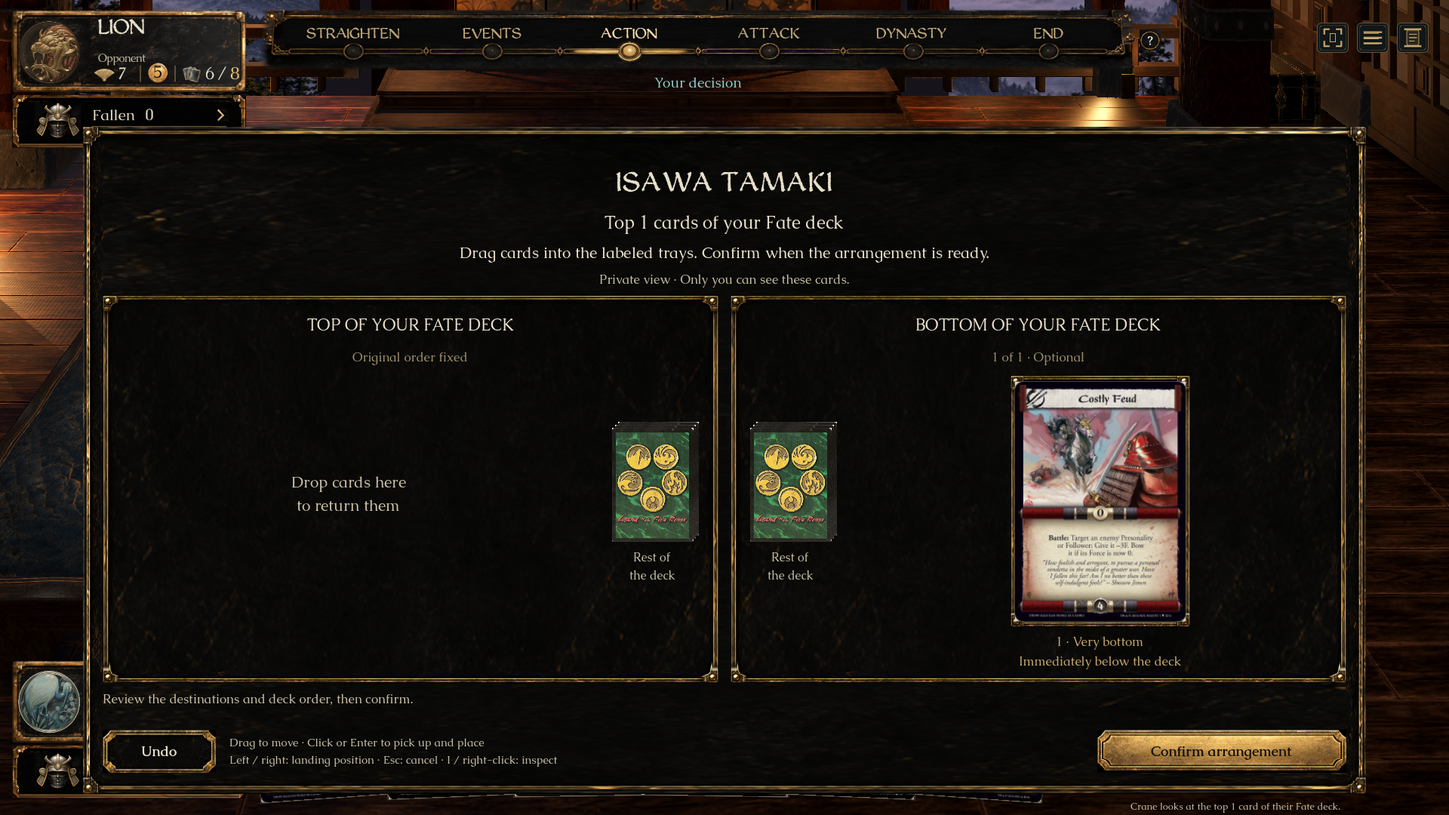
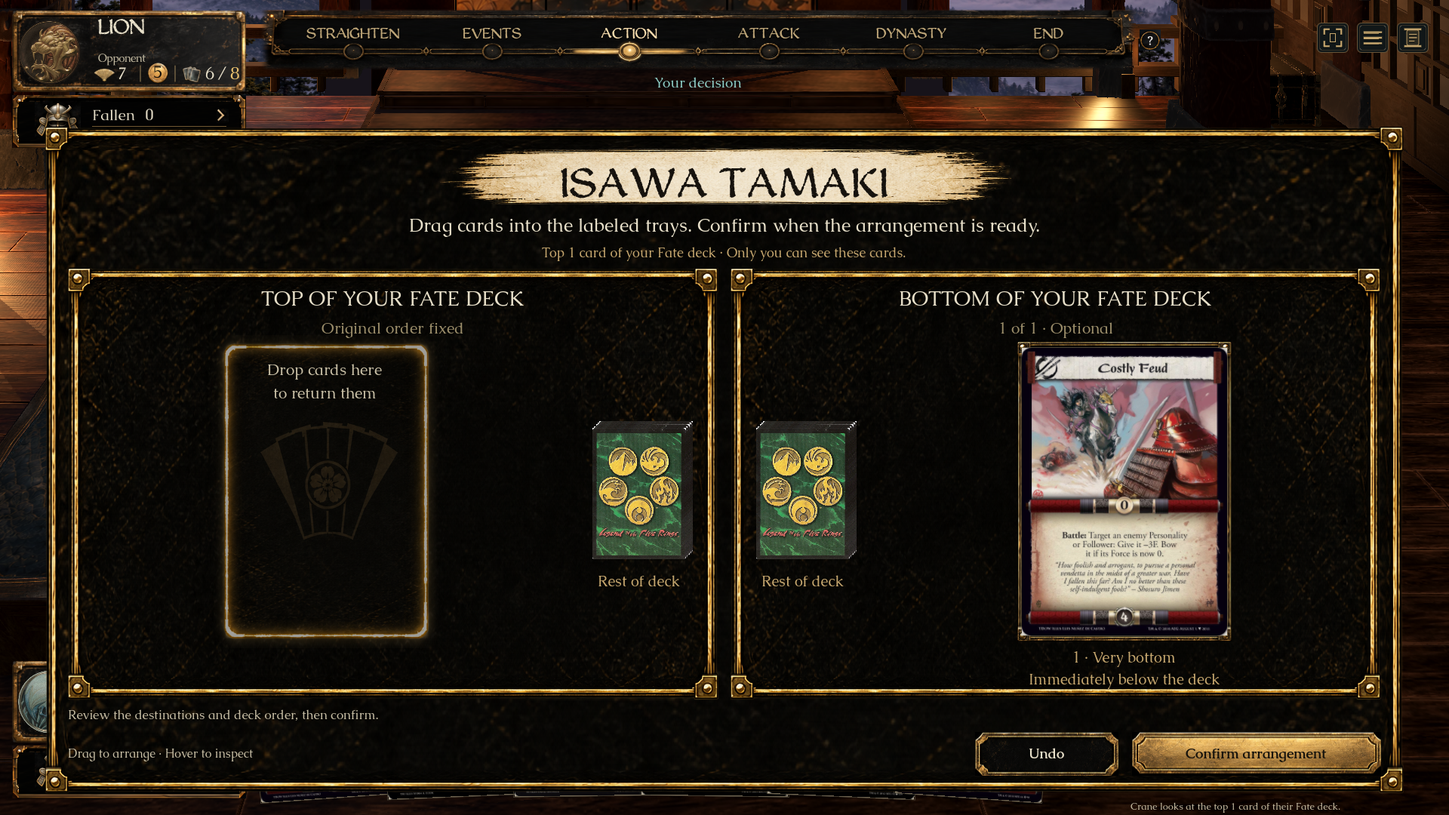
Restore Top Cards concept presentation and native review evidence

Changed region(s): [[0.0312, 0.1528, 0.9688, 0.9778], [0.0938, 0.2444, 0.125, 0.275]]

diff --git a/docs/screenshots/top-cards-drag/index.html b/docs/screenshots/top-cards-drag/index.html
@@ -1,1 +1,1 @@
-<!doctype html><html lang="en"><meta charset="utf-8"><meta name="viewport" content="width=device-width,initial-scale=1"><title>L5R · Approved Top Cards implementation</title><style>body{margin:0;background:#111411;color:#eee9db;font:17px/1.6 system-ui}main{max-width:1760px;margin:auto;padding:32px}h1,h2,h3{font-family:Georgia;font-weight:normal}a{color:#e6c98d}img{width:100%;display:block}.compare{display:grid;grid-template-columns:1fr 1fr;gap:20px}figure{margin:0}section{margin:28px 0;padding:22px;border:1px solid #454737;background:#191d18}.note{color:#bcbcae}@media(max-width:950px){.compare{grid-template-columns:1fr}}</style><main><h1>Drag cards into their destinations</h1><p><strong>A’s layout + B’s clear deck-order labels.</strong> The approved design is implemented in the native game. Review the new result before approving it for integration. Nothing has been merged into main.</p><p><a href="https://github.com/alfredoh7/l5r-emperor/pull/434">PR #434 and review feedback</a> · Native launcher: <strong>L5R Top Cards - Drag Review.app</strong>, linked in the conversation.</p><section><h2>Source and native result</h2><div class="compare"><figure><figcaption>A · Approved layout concept</figcaption><a href="../../designs/2026-09-22-top-cards-drag/a.png"><img src="../../designs/2026-09-22-top-cards-drag/a.png" alt="Approved ImageGen concept A with destination trays"></a></figure><figure><figcaption>Native · Original card faces and explicit deck order</figcaption><a href="normal-bottom.png"><img src="normal-bottom.png" alt="Native Banish All Doubt arrangement with the selected card in hand and three labeled bottom-deck positions"></a></figure></div><p class="note">The layout and positional explanation follow the selected concepts. The game retains its actual lacquer/brass artwork, original scans and heading font. Generated card art, parchment heading decoration and invented card text are not copied. This is not an exact full-screen pixel match.</p></section><section><h2>Before release</h2><p>A gold landing outline and live order labels show where the card will go. Neighbors make room. The arrangement stays a private draft until Confirm.</p><a href="normal-drag-bottom.png"><img src="normal-drag-bottom.png" alt="Native drag in progress with a visible held card and insertion slot"></a></section><section><h2>B’s order explanation</h2><div class="compare"><figure><figcaption>B · Order-label reference</figcaption><a href="../../designs/2026-09-22-top-cards-drag/b.png"><img src="../../designs/2026-09-22-top-cards-drag/b.png" alt="Concept B explicit physical deck order"></a></figure><div><p><strong>Top:</strong> 1 · Drawn first; 2 · Below card 1.</p><p><strong>Bottom:</strong> 1 · Immediately below the deck; 2 · Below card 1; 3 · Very bottom.</p><p>Drop outside a tray or press Escape to cancel. Undo reverses the last draft move. Click/Enter placement and left/right landing positions are available without dragging. Right-click or I opens the full scan.</p><p>Only engine-offered destinations appear. Eligibility and count bounds remain enforced; filling a Hand tray does not silently replace its card.</p></div></div></section><section><h2>Other effects remain explicit</h2><a href="normal-mixed.png"><img src="normal-mixed.png" alt="Separate top, bottom, hand and discard destinations"></a><a href="normal-top-bottom.png"><img src="normal-top-bottom.png" alt="Isawa Tamaki shows top and bottom destinations side by side"></a></section><section><h2>Smaller window · reduced motion</h2><a href="reduced-bottom.png"><img src="reduced-bottom.png" alt="1280 by 800 native view with reduced motion"></a></section><p>Native Mac tests passed at 1920×1080 and 1280×800: dragging, insertion, keyboard/click alternatives, cancel/undo, exact engine outcomes, eligibility/count limits, privacy and seat/busy resets. Windows graphical testing and Mendon’s acceptance remain open.</p></main></html>
+<!doctype html><html lang="en"><meta charset="utf-8"><meta name="viewport" content="width=device-width,initial-scale=1"><title>L5R · Top Cards concept fidelity review</title><style>body{margin:0;background:#111411;color:#eee9db;font:17px/1.6 system-ui}main{max-width:1760px;margin:auto;padding:32px}h1,h2,h3{font-family:Georgia;font-weight:normal}a{color:#e6c98d}img{width:100%;display:block}.compare{display:grid;grid-template-columns:1fr 1fr;gap:20px}figure{margin:0}section{margin:28px 0;padding:22px;border:1px solid #454737;background:#191d18}.note{color:#bcbcae}@media(max-width:950px){.compare{grid-template-columns:1fr}}</style><main><h1>Drag cards into their destinations</h1><p><strong>A’s layout + B’s clear deck-order labels.</strong> Revised 23 September after Alfredo rejected the earlier visual approximation. This capture restores the brush title, larger cards and deck anchor, a visible Hand slot, and glowing landing furniture. The new native result still needs Alfredo’s review. No main merge was made for this correction.</p><p><a href="https://github.com/alfredoh7/l5r-emperor/pull/434">PR #434 and review feedback</a> · Native launcher: <strong>L5R Top Cards - Approved Layout.app</strong>, linked in the conversation.</p><section><h2>Source and native result</h2><div class="compare"><figure><figcaption>A · Approved layout concept</figcaption><a href="../../designs/2026-09-22-top-cards-drag/a.png"><img src="../../designs/2026-09-22-top-cards-drag/a.png" alt="Approved ImageGen concept A with destination trays"></a></figure><figure><figcaption>Native · Original card faces and explicit deck order</figcaption><a href="normal-bottom.png"><img src="normal-bottom.png" alt="Native Banish All Doubt arrangement with the selected card in hand and three labeled bottom-deck positions"></a></figure></div><p class="note">The horizontal composition follows selected A; position labels follow B. The brush title and drop-slot furniture were derived with ImageGen from A, replacing the earlier approximation. Original scans, deck backs, live labels and the game’s heading font remain. These authentic faces differ from the illustrative concepts; no exact full-screen pixel-match claim is made.</p></section><section><h2>Before release</h2><p>A gold landing outline and live order labels show where the card will go. Neighbors make room. The arrangement stays a private draft until Confirm.</p><a href="normal-drag-bottom.png"><img src="normal-drag-bottom.png" alt="Native drag in progress with a visible held card and insertion slot"></a></section><section><h2>B’s order explanation</h2><div class="compare"><figure><figcaption>B · Order-label reference</figcaption><a href="../../designs/2026-09-22-top-cards-drag/b.png"><img src="../../designs/2026-09-22-top-cards-drag/b.png" alt="Concept B explicit physical deck order"></a></figure><div><p><strong>Top:</strong> 1 · Drawn first; 2 · Below card 1.</p><p><strong>Bottom:</strong> 1 · Immediately below the deck; 2 · Below card 1; 3 · Very bottom.</p><p>Drop outside a tray or press Escape to cancel. Undo reverses the last draft move. Click/Enter placement and left/right landing positions are available without dragging. Right-click or I opens the full scan.</p><p>Only engine-offered destinations appear. Eligibility and count bounds remain enforced; filling a Hand tray does not silently replace its card.</p></div></div></section><section><h2>Other effects remain explicit</h2><a href="normal-mixed.png"><img src="normal-mixed.png" alt="Separate top, bottom, hand and discard destinations"></a><a href="normal-top-bottom.png"><img src="normal-top-bottom.png" alt="Isawa Tamaki shows top and bottom destinations side by side"></a></section><section><h2>Smaller window · reduced motion</h2><a href="reduced-bottom.png"><img src="reduced-bottom.png" alt="1280 by 800 native view with reduced motion"></a></section><p>Native Mac tests passed at 1920×1080 and 1280×800: dragging, insertion, keyboard/click alternatives, cancel/undo, exact engine outcomes, eligibility/count limits, privacy and seat/busy resets. This revised appearance awaits human review. The Windows release pinned at 9f8ef9f5 predates this correction.</p></main></html>

diff --git a/src/L5R.Client/TopCardPanel.cs b/src/L5R.Client/TopCardPanel.cs
@@ -40,14 +40,17 @@ public sealed partial class TopCardPanel : PanelContainer
 
     public TopCardPanel()
     {
-        Theme = SidebarSkin.Theme(); AddThemeStyleboxOverride("panel", SidebarSkin.Surface());
-        _body.AddThemeConstantOverride("separation", 10); AddChild(_body);
+        Theme = SidebarSkin.Theme(); AddThemeStyleboxOverride("panel", TopCardSkin.Frame());
+        _body.AddThemeConstantOverride("separation", 8); AddChild(_body);
         _body.AddChild(_workspace); _workspace.Hide(); _workspace.AddChild(_landing);
         _workspace.Resized += () => LayoutCards(false);
-        _landing.AddThemeStyleboxOverride("panel", Palette.Box(new Color(.15f, .12f, .055f, .8f), Palette.Gold, 2, 4));
-        _landingText.HorizontalAlignment = HorizontalAlignment.Center; _landingText.VerticalAlignment = VerticalAlignment.Center;
+        _landing.AddThemeStyleboxOverride("panel", new StyleBoxEmpty());
+        var landingArt = new TextureRect { Texture = TopCardSkin.Slot, ExpandMode = TextureRect.ExpandModeEnum.IgnoreSize,
+            StretchMode = TextureRect.StretchModeEnum.Scale, MouseFilter = MouseFilterEnum.Ignore };
+        _landing.AddChild(landingArt); landingArt.SetAnchorsAndOffsetsPreset(LayoutPreset.FullRect);
+        _landingText.HorizontalAlignment = HorizontalAlignment.Center; _landingText.VerticalAlignment = VerticalAlignment.Top;
         _landingText.MouseFilter = MouseFilterEnum.Ignore; _landing.AddChild(_landingText);
-        _landingText.SetAnchorsAndOffsetsPreset(LayoutPreset.FullRect); _landingText.OffsetLeft = 10; _landingText.OffsetRight = -10;
+        _landingText.SetAnchorsAndOffsetsPreset(LayoutPreset.FullRect); _landingText.OffsetLeft = 20; _landingText.OffsetRight = -20; _landingText.OffsetTop = 30;
     }
     private void Center(string text, int size, Color? color = null, bool title = false)
     {
@@ -79,11 +82,21 @@ public sealed partial class TopCardPanel : PanelContainer
             return;
         }
         foreach (var card in look.Cards!) { _order.Add(card.Position); _destinations[card.Position] = look.Remainder; }
-        Center(look.SourceName.ToUpperInvariant(), 36, title: true);
-        Center($"Top {look.Cards.Length} {(look.Cards.Length == 1 ? "card" : "cards")} of {(look.OwnDeck ? "your" : "your opponent’s")} {look.Deck} deck", 24,
-            look.OwnDeck ? Palette.Paper : Palette.Gold);
-        Center(Instructions(), 21);
-        Center("Private view · Only you can see these cards.", 17, Palette.PaperDim);
+        var heading = new CenterContainer(); _body.AddChild(heading);
+        var title = new Control { CustomMinimumSize = new(760, 82), MouseFilter = MouseFilterEnum.Ignore }; heading.AddChild(title);
+        var brush = new TextureRect { Texture = TopCardSkin.Brush, ExpandMode = TextureRect.ExpandModeEnum.IgnoreSize,
+            StretchMode = TextureRect.StretchModeEnum.Scale, MouseFilter = MouseFilterEnum.Ignore };
+        title.AddChild(brush); brush.SetAnchorsAndOffsetsPreset(LayoutPreset.FullRect);
+        var titleText = look.SourceName.ToUpperInvariant();
+        var measuredTitle = Palette.HeadingLabel(56).GetStringSize(titleText, fontSize: 56).X;
+        var titleSize = Math.Min(56, (int)Math.Floor(56 * 612 / Math.Max(1, measuredTitle)));
+        var name = Palette.Text(titleText, titleSize, new Color("16120d"));
+        name.AddThemeFontOverride("font", Palette.HeadingLabel(titleSize));
+        name.HorizontalAlignment = HorizontalAlignment.Center; name.VerticalAlignment = VerticalAlignment.Center;
+        name.MouseFilter = MouseFilterEnum.Ignore; name.ClipText = true;
+        title.AddChild(name); name.SetAnchorsAndOffsetsPreset(LayoutPreset.FullRect); name.OffsetLeft = 66; name.OffsetRight = -66;
+        Center(Instructions(), 25);
+        Center($"Top {look.Cards.Length} {(look.Cards.Length == 1 ? "card" : "cards")} of {(look.OwnDeck ? "your" : "your opponent’s")} {look.Deck} deck · Only you can see these cards.", 18, Palette.Gold);
         _body.MoveChild(_workspace, -1); _workspace.Show(); _workspace.CustomMinimumSize = new(0, 460);
         var offered = (look.Rules ?? []).Where(r => r.Max > 0).Select(r => r.Disposition).Append(look.Remainder).ToHashSet();
         foreach (var destination in new[] { "top", "bottom", "hand", "show", "discard" }.Where(offered.Contains))
@@ -95,15 +108,16 @@ public sealed partial class TopCardPanel : PanelContainer
         foreach (var card in look.Cards)
         {
             var face = new TopCardFace(this, card.Position, DeckSearchPanel.Printed(card.Definition, viewer));
-            var caption = Palette.Wrapped("", 17, Palette.Gold); caption.HorizontalAlignment = HorizontalAlignment.Center;
+            var caption = Palette.Wrapped("", 20, Palette.Gold); caption.HorizontalAlignment = HorizontalAlignment.Center;
             caption.MouseFilter = MouseFilterEnum.Ignore;
             _workspace.AddChild(face); _workspace.AddChild(caption); _cards[card.Position] = (face, caption);
         }
-        _hint = Palette.Wrapped("", 17, Palette.PaperDim); _hint.CustomMinimumSize = new(0, 42); _body.AddChild(_hint);
+        _hint = Palette.Wrapped("", 17, Palette.PaperDim); _hint.CustomMinimumSize = new(0, 26); _body.AddChild(_hint);
         var footer = new HBoxContainer(); footer.AddThemeConstantOverride("separation", 18); _body.AddChild(footer);
-        UndoButton = SidebarSkin.Button("Undo", Undo); UndoButton.CustomMinimumSize = new(150, 54); footer.AddChild(UndoButton);
-        var help = Palette.Wrapped("Drag to move · Click or Enter to pick up and place\nLeft / right: landing position · Esc: cancel · I / right-click: inspect", 15, Palette.PaperDim);
-        help.SizeFlagsHorizontal = SizeFlags.ExpandFill; footer.AddChild(help);
+        var help = Palette.Text("Drag to arrange · Hover to inspect", 16, Palette.PaperDim);
+        help.TooltipText = "Click or Enter to pick up and place. Left / right chooses the landing position. Escape cancels. I or right-click opens the full card.";
+        help.MouseFilter = MouseFilterEnum.Stop; help.SizeFlagsHorizontal = SizeFlags.ExpandFill; footer.AddChild(help);
+        UndoButton = SidebarSkin.Button("Undo", Undo); UndoButton.CustomMinimumSize = new(190, 58); footer.AddChild(UndoButton);
         ConfirmButton = SidebarSkin.Button("Confirm arrangement", () =>
         {
             if (!_canSubmit || _dragged is not null || _picked is not null || !ValidDraft()) return;
@@ -116,7 +130,7 @@ public sealed partial class TopCardPanel : PanelContainer
         var rules = (_look.Rules ?? []).Where(r => r.Max > 0).ToArray();
         if (rules.Length == 0) return _look.CanReorder ? "Drag the cards into the order you want to draw them." : "Review the cards. Their original order is fixed.";
         if (rules.Length == 1 && rules[0] is { Disposition: "hand", Min: 1, Max: 1 })
-            return $"Drag 1 card into your hand. {(_look.CanReorder ? "Arrange" : "Return")} the rest {(_look.Remainder == "bottom" ? "below" : "on top of")} the deck.";
+            return $"Drag 1 card into your hand. {(_look.CanReorder ? "Arrange" : "Return")} the other {_look.Cards!.Length - 1} {(_look.Remainder == "bottom" ? "at the bottom" : "on top of the deck")}.";
         return "Drag cards into the labeled trays. Confirm when the arrangement is ready.";
     }
     private static bool IsReturn(string destination) => destination is "top" or "bottom";
@@ -153,8 +167,8 @@ public sealed partial class TopCardPanel : PanelContainer
         {
             var rule = _look.Rules?.FirstOrDefault(r => r.Disposition == destination);
             var count = Group(destination).Length;
-            tray.Count.Text = rule is null ? (_look.CanReorder ? "Arrange left to right" : "Original order fixed") :
-                rule.Min == rule.Max ? $"{count} of {rule.Max} · Choose exactly {rule.Max}" : rule.Min == 0 ? $"{count} of {rule.Max} · Optional" : $"{count} selected · Choose {rule.Min}–{rule.Max}";
+            tray.Count.Text = rule is null ? (_look.CanReorder ? "" : "Original order fixed") :
+                rule.Min == rule.Max ? (count == rule.Max ? $"{count} of {rule.Max} · Ready" : $"Choose {rule.Max} · {count} placed") : rule.Min == 0 ? $"{count} of {rule.Max} · Optional" : $"{count} selected · Choose {rule.Min}–{rule.Max}";
             tray.Count.Modulate = rule is not null && (count < rule.Min || count > rule.Max) ? Palette.Gold : Palette.PaperDim;
             tray.Disabled = !_canSubmit;
             tray.TooltipText = (_dragged ?? _picked) is int p ? DropReason(p, destination) ?? "Place card here" : "Pick up a card, then choose this tray.";
@@ -233,6 +247,7 @@ public sealed partial class TopCardPanel : PanelContainer
         var preview = new Control { MouseFilter = MouseFilterEnum.Ignore, ZIndex = 200, ZAsRelative = false };
         var face = CardPreview.Face(DeckSearchPanel.Printed(_look.Cards!.Single(c => c.Position == position).Definition, _viewer), source.Size.Y * scale.Y, source.Size.X * scale.X);
         preview.AddChild(face); face.Position = -atPosition * scale; face.Size = source.Size * scale;
+        if (!ReducedMotion) face.Rotation = .055f;
         source.SetDragPreview(preview); Paint(); LayoutCards(false);
         return new Godot.Collections.Dictionary { ["top_card_panel"] = GetInstanceId(), ["position"] = position };
     }
@@ -292,13 +307,13 @@ public sealed partial class TopCardPanel : PanelContainer
     private Rect2[] SlotRects(TopCardTray tray, int count)
     {
         count = Math.Max(1, count);
-        var anchorWidth = IsReturn(tray.Destination) ? Math.Min(166, tray.Size.X * .20f) : 0;
-        var area = new Rect2(tray.Position + new Vector2(18 + (tray.Destination == "bottom" ? anchorWidth : 0), 106),
-            new Vector2(tray.Size.X - 36 - anchorWidth, tray.Size.Y - 180));
-        var width = Math.Min((area.Size.X - (count - 1) * 18) / count, Math.Min(area.Size.Y / 1.4f, 252));
+        var anchorWidth = IsReturn(tray.Destination) ? Math.Min(218, tray.Size.X * .21f) : 0;
+        var area = new Rect2(tray.Position + new Vector2(24 + (tray.Destination == "bottom" ? anchorWidth : 0), 98),
+            new Vector2(tray.Size.X - 48 - anchorWidth, tray.Size.Y - 176));
+        var width = Math.Min((area.Size.X - (count - 1) * 22) / count, Math.Min(area.Size.Y / 1.4f, 306));
         width = Math.Max(38, width); var height = width * 1.4f;
-        var start = area.Position + new Vector2((area.Size.X - count * width - (count - 1) * 18) / 2, (area.Size.Y - height) / 2);
-        return Enumerable.Range(0, count).Select(i => new Rect2(start + new Vector2(i * (width + 18), 0), new Vector2(width, height))).ToArray();
+        var start = area.Position + new Vector2((area.Size.X - count * width - (count - 1) * 22) / 2, (area.Size.Y - height) / 2);
+        return Enumerable.Range(0, count).Select(i => new Rect2(start + new Vector2(i * (width + 22), 0), new Vector2(width, height))).ToArray();
     }
     public Vector2 DropPoint(string destination, int index, int position)
     {
@@ -310,7 +325,7 @@ public sealed partial class TopCardPanel : PanelContainer
         if (_look?.Stage != "Arrange" || _workspace.Size.X < 20 || _workspace.Size.Y < 20) return;
         var returns = _trays.Values.Where(t => IsReturn(t.Destination)).ToArray();
         var outgoing = _trays.Values.Where(t => !IsReturn(t.Destination)).ToArray();
-        var sideWidth = outgoing.Length == 0 ? 0 : Math.Clamp(_workspace.Size.X * .24f, 270, 365);
+        var sideWidth = outgoing.Length == 0 ? 0 : Math.Clamp(_workspace.Size.X * .235f, 290, 402);
         var mainWidth = _workspace.Size.X - (outgoing.Length == 0 ? 0 : sideWidth + 16);
         void Arrange(TopCardTray[] trays, float x, float width)
         {
@@ -345,14 +360,19 @@ public sealed partial class TopCardPanel : PanelContainer
             }
             var slots = SlotRects(tray, contents.Count);
             tray.Empty.Visible = contents.Count == 0;
+            tray.EmptySlot.Visible = contents.Count == 0;
+            tray.EmptySlot.Position = slots[0].Position - tray.Position - new Vector2(9, 9);
+            tray.EmptySlot.Size = slots[0].Size + new Vector2(18, 18);
             tray.Empty.Text = IsReturn(destination) ? "Drop cards here\nto return them" : "Drop card here";
+            tray.Empty.Position = tray.EmptySlot.Position + new Vector2(22, 32);
+            tray.Empty.Size = new(tray.EmptySlot.Size.X - 44, 60);
             for (var i = 0; i < contents.Count; i++)
             {
                 var position = contents[i]; var card = _cards[position]; var rect = slots[i];
                 if (previewing && position == active)
                 {
-                    _landing.Position = rect.Position - new Vector2(6, 6); _landing.Size = rect.Size + new Vector2(12, 12); _landing.Show();
-                    _landingText.Text = (_dragged is not null ? "Release here" : "Place here") + "\n\n" + SlotLabel(destination, i, contents.Count);
+                    _landing.Position = rect.Position - new Vector2(9, 9); _landing.Size = rect.Size + new Vector2(18, 18); _landing.Show();
+                    _landingText.Text = destination == "hand" ? "Release to put in hand" : (_dragged is not null ? "Release here" : "Place here");
                 }
                 if (_dragged != position)
                 {
@@ -382,26 +402,29 @@ public sealed partial class TopCardTray : Button
     private readonly Control? _anchor;
     private readonly Label? _anchorLabel;
     public readonly string Destination;
-    public readonly Label Count = Palette.Text("", 17, Palette.PaperDim);
+    public readonly Label Count = Palette.Text("", 21, Palette.PaperDim);
     public readonly Label Empty = Palette.Wrapped("Drop card here", 21, Palette.PaperDim);
+    public readonly TextureRect EmptySlot = new() { Texture = TopCardSkin.Slot, ExpandMode = TextureRect.ExpandModeEnum.IgnoreSize,
+        StretchMode = TextureRect.StretchModeEnum.Scale, MouseFilter = MouseFilterEnum.Ignore, Modulate = new Color(1, 1, 1, .62f) };
     public TopCardTray(TopCardPanel panel, string destination, string title, string? deck)
     {
         _panel = panel; Destination = destination; MouseDefaultCursorShape = CursorShape.PointingHand;
-        _title = Palette.Wrapped(title, 22, Palette.Paper); _title.HorizontalAlignment = HorizontalAlignment.Center;
+        _title = Palette.Wrapped(title, 28, Palette.Paper); _title.HorizontalAlignment = HorizontalAlignment.Center;
         Count.HorizontalAlignment = HorizontalAlignment.Center; Empty.HorizontalAlignment = HorizontalAlignment.Center;
+        AddChild(EmptySlot);
         foreach (var label in new[] { _title, Count, Empty }) { label.MouseFilter = MouseFilterEnum.Ignore; AddChild(label); }
         AccessibilityName = title + " · destination tray";
         if (deck is not null)
         {
             _anchor = new Control { MouseFilter = MouseFilterEnum.Ignore }; AddChild(_anchor);
-            for (var i = 2; i >= 0; i--)
+            for (var i = 4; i >= 0; i--)
             {
                 var back = new TextureRect { Texture = GD.Load<Texture2D>(deck == "Fate" ? "res://Art/original-fate-back.png" : "res://Art/original-dynasty-back.png"),
                     ExpandMode = TextureRect.ExpandModeEnum.IgnoreSize, StretchMode = TextureRect.StretchModeEnum.Scale,
-                    MouseFilter = MouseFilterEnum.Ignore, Position = new(i * 4, -i * 4), Size = new(112, 157) };
+                    MouseFilter = MouseFilterEnum.Ignore, Position = new(i * 3, -i * 3), Size = new(158, 222) };
                 _anchor.AddChild(back);
             }
-            _anchorLabel = Palette.Wrapped("Rest of\nthe deck", 16, Palette.PaperDim); _anchorLabel.HorizontalAlignment = HorizontalAlignment.Center;
+            _anchorLabel = Palette.Wrapped("Rest of deck", 20, Palette.Gold); _anchorLabel.HorizontalAlignment = HorizontalAlignment.Center;
             _anchorLabel.MouseFilter = MouseFilterEnum.Ignore; AddChild(_anchorLabel);
         }
         Pressed += () => _panel.PlacePicked(Destination);
@@ -410,23 +433,23 @@ public sealed partial class TopCardTray : Button
     }
     public void LayoutAnchor()
     {
-        _title.AddThemeFontSizeOverride("font_size", Size.X < 600 ? 20 : 22);
-        _title.Position = new(12, 13); _title.Size = new(Size.X - 24, 52); _title.VerticalAlignment = VerticalAlignment.Center;
-        Count.Position = new(12, 70); Count.Size = new(Size.X - 24, 24);
-        var reserved = _anchor is null ? 0 : Math.Min(166, Size.X * .20f);
+        _title.AddThemeFontSizeOverride("font_size", Size.X < 600 ? 24 : 28);
+        _title.Position = new(18, 15); _title.Size = new(Size.X - 36, 52); _title.VerticalAlignment = VerticalAlignment.Center;
+        Count.Position = new(18, 66); Count.Size = new(Size.X - 36, 26);
+        var reserved = _anchor is null ? 0 : Math.Min(218, Size.X * .21f);
         Empty.Position = new(18 + (Destination == "bottom" ? reserved : 0), Size.Y / 2 - 24);
         Empty.Size = new(Size.X - 36 - reserved, 65);
         if (_anchor is not null)
         {
-            var scale = Math.Min(1, Size.X / 850); _anchor.Scale = Vector2.One * scale;
-            _anchor.Position = new(Destination == "bottom" ? 26 : Size.X - 26 - 120 * scale, Size.Y / 2 - 85 * scale);
-            _anchorLabel!.Position = _anchor.Position + new Vector2(-14, 157 * scale + 10);
-            _anchorLabel.Size = new(112 * scale + 28, 52);
+            var scale = Math.Min(1, Size.X / 1100); _anchor.Scale = Vector2.One * scale;
+            _anchor.Position = new(Destination == "bottom" ? 34 : Size.X - 34 - 170 * scale, Size.Y / 2 - 95 * scale);
+            _anchorLabel!.Position = _anchor.Position + new Vector2(-16, 222 * scale + 16);
+            _anchorLabel.Size = new(158 * scale + 32, 52);
         }
     }
     public void Mark(bool active, bool unavailable)
     {
-        var style = SidebarSkin.Inset(); style.ModulateColor = unavailable ? new Color(.65f, .6f, .52f) : active ? new Color(1.5f, 1.25f, .75f) : Colors.White;
+        var style = TopCardSkin.Frame(true); style.ModulateColor = unavailable ? new Color(.65f, .6f, .52f) : active ? new Color(1.15f, 1.08f, .9f) : Colors.White;
         foreach (var state in new[] { "normal", "hover", "pressed", "disabled" }) AddThemeStyleboxOverride(state, style);
         AddThemeStyleboxOverride("focus", Palette.Box(Colors.Transparent, Palette.Gold, 2, 2));
     }

diff --git a/src/L5R.Client/TopCardSkin.cs b/src/L5R.Client/TopCardSkin.cs
@@ -1,0 +1,23 @@
+using Godot;
+
+namespace L5R.Client;
+
+/// <summary>Raster furniture derived from the selected destination-tray concept.</summary>
+public static class TopCardSkin
+{
+    private static Texture2D Atlas => GD.Load<Texture2D>("res://Art/TopCards/approved-trays-atlas.png");
+    public static Texture2D Brush => new AtlasTexture { Atlas = Atlas, Region = new Rect2(38, 518, 1002, 140) };
+    public static Texture2D Slot => new AtlasTexture { Atlas = Atlas, Region = new Rect2(1060, 416, 448, 578) };
+    public static StyleBoxTexture Frame(bool inset = false, Color? tint = null)
+    {
+        var style = new StyleBoxTexture
+        {
+            Texture = new AtlasTexture { Atlas = Atlas, Region = new Rect2(26, 36, 1486, 378) },
+            ModulateColor = tint ?? Colors.White,
+            ContentMarginLeft = inset ? 14 : 30, ContentMarginRight = inset ? 14 : 30,
+            ContentMarginTop = inset ? 14 : 24, ContentMarginBottom = inset ? 14 : 24
+        };
+        foreach (var side in new[] { Side.Left, Side.Top, Side.Right, Side.Bottom }) style.SetTextureMargin(side, 32);
+        return style;
+    }
+}

diff --git a/src/L5R.Client/Main.TopCards.cs b/src/L5R.Client/Main.TopCards.cs
@@ -20,7 +20,7 @@ public partial class Main
     private void FitLookPanel()
     {
         if (_lookPanel is null) return;
-        var width = Math.Min(1700, _layoutWidth - 64);
+        var width = Math.Min(1800, _layoutWidth - 64);
         _lookPanel.Position = new((_layoutWidth - width) / 2, 168); _lookPanel.Size = new(width, 884);
     }
     private bool RenderLookDecision()

diff --git a/docs/screenshots/top-cards-drag/README.md b/docs/screenshots/top-cards-drag/README.md
@@ -1,9 +1,9 @@
-# Top Cards native acceptance — 22 September 2026
+# Top Cards concept fidelity — 23 September 2026
 
-[Source/native comparison](index.html). Original source images and provenance are in [designs](../../designs/2026-09-22-top-cards-drag/README.md). These captures use the actual Godot renderer and original card faces.
+[Source/native comparison](index.html). Original A/B concepts are preserved in [designs](../../designs/2026-09-22-top-cards-drag/README.md). Alfredo rejected the previous native approximation; this revision restores A’s composition and decorative treatment with B’s explicit deck-order labels. New native acceptance remains pending.
 
-Client build: 0 warnings, 0 errors. `bash tools/check-top-cards-ui.sh` passes at 1920×1080 normal motion and 1280×800 reduced motion. Native mouse drag/reorder, slot previews, click/keyboard equivalents, invalid/full/outside drops, undo, Escape, full inspection, exact engine order, top/bottom/hand/show/discard, opponent privacy, fixed/short/empty decks and seat/busy drag cancellation are exercised. Label and face containment are asserted.
+The built-in ImageGen tool derived a transparent raster atlas from A for the lacquer frame, blank brush title and glowing slot. See `assets/ui/top-cards/provenance.json` for the exact prompt and file. Titles and labels remain live; card faces and deck backs remain the original scans. The game’s heading font is preserved. No exact full-screen pixel equivalence is claimed.
 
-Visual comparison checked at full-table scale and readable image scale. Main differences from the concept are deliberate reuse of existing heading/font/frame assets and authentic scans. B’s wording is integrated into A’s horizontal tray layout. Mixed effects use neighboring full-height destinations. No pixel-equivalence claim; no rules or Windows human acceptance claim.
+Native Mac Top Cards checks cover normal 1920×1080 and reduced-motion 1280×800: real drag/reorder, click/keyboard alternatives, insertion, cancellation, Undo, full inspection, exact engine results, top/bottom/hand/show/discard, fixed order, short/empty decks, eligibility/count bounds, and private seat/busy cancellation. The initial full build has one inherited CS0169 warning for `BattleTracker._flowArt`, zero errors. Full-window table coverage/HUD protection also passes at 1920×1080, 1440×900 and 2560×1080 after integrating main’s clipping fix. Exact final outcomes are recorded in the task handoff.
 
-Native 1920×1080 table camera/input and full-window coverage regressions also pass after the drag-release routing fix. Prepared app launched from Finder and reached its engine-backed review-ready checkpoint.
+The prepared `L5R Top Cards - Approved Layout.app` opens this checkout’s prebuilt Banish All Doubt scenario. Local gallery: http://127.0.0.1:8799/top-cards-drag/native/. The Windows preview pinned at 9f8ef9f5 predates this visual correction. No Windows graphical validation or main merge is claimed.

diff --git a/docs/handoffs/2026-09-23-top-cards-concept-fidelity.md b/docs/handoffs/2026-09-23-top-cards-concept-fidelity.md
@@ -1,0 +1,19 @@
+# Top Cards concept-fidelity correction — 23 September 2026
+
+Issue #323 / PR #434, continuing `codex/323-review-revisions` after fast-forwarding to Mendon’s integrated 9f8ef9f5. Alfredo rejected the earlier appearance as insufficiently faithful to the selected A layout and B labels. The screenshot in his correction displays B, so an optional clarification was offered; the existing explicit A+B selection was retained absent a changed direction.
+
+The revised panel restores the brush title with live heading text, larger full card faces, a more substantial original deck-back stack, visible empty Hand slot, glowing insertion slot, positional captions, and right-aligned Undo/Confirm. The existing engine contract, counts, legality, private draft, keyboard/click placement, cancellation and privacy behavior remain unchanged. Long source names fit inside the brush strip.
+
+The built-in ImageGen tool derived the lacquer, brush and slot furniture from approved concept A. Runtime asset: `src/L5R.Client/Art/TopCards/approved-trays-atlas.png`. Exact prompt and provenance: `assets/ui/top-cards/provenance.json`. Original card scans/deck backs and existing heading font are retained; this is not a full-screen pixel-equivalence or human acceptance claim.
+
+Current main’s clipping fix (#447 / 78573475) was merged into this task branch. Conflicts retain the preview branch’s modal/review/drag routing, attack tab, battle-progress HUD exclusion, and richer native probe support. `TableSurface` takes main’s instance `PlanePitch`/`PlaneDepth` projection and minimum `CanvasExtent`, preserving the existing duel camera configuration. No changes were merged into main.
+
+## Validation
+
+Final validation is recorded in the branch JSON handoff. Source/native captures and comparison: `docs/screenshots/top-cards-drag/`. Build has no errors; the initial full build reports the inherited unused `BattleTracker._flowArt` CS0169 warning.
+
+## Review
+
+Prepared Mac launcher: `artifacts/L5R Top Cards - Approved Layout.app`; fast entry: `artifacts/Review Top Cards - Approved Layout.command`. They use this checkout’s already-built client and open the Banish All Doubt scenario. `Review Top Cards.command` remains the portable build-and-run entry. `artifacts/L5R Emperor - Latest.app` was refreshed for the checkout.
+
+The local gallery at http://127.0.0.1:8799/top-cards-drag/native/ is updated with the revised native captures. Alfredo’s hands-on acceptance is pending. The Windows release `preview-pr434-9f8ef9f5a5-r1-windows` is immutable and predates this correction; do not treat it as the corrected appearance. No Windows re-export or Windows graphical playtest is claimed for this task.

diff --git a/docs/decisions/2026-09-22-top-cards-drag-review.md b/docs/decisions/2026-09-22-top-cards-drag-review.md
@@ -21,3 +21,7 @@ Alfredo explicitly says Multiple Targets (#345) and Battle Progress (#311) are g
 - [Battle Progress](https://github.com/alfredoh7/l5r-emperor/pull/430#issuecomment-5780064575)
 
 These are Alfredo’s approvals, not Mendon’s acceptance or authorization to merge main. Previous Opponent Payment acceptance and the selected ghost-copy design remain recorded in their existing decisions/handoffs.
+
+## 23 September correction
+
+Alfredo rejected the earlier native appearance as not matching the selected concept. The earlier reuse-only interpretation was insufficient: restore A’s brush title, larger full faces and physical deck anchor, a visible Hand slot, and the landing highlight treatment. Keep B’s explicit positional labels. His screenshot displays B; an optional layout clarification was requested, with the earlier explicit A+B selection retained in the absence of a changed direction. This is not renewed approval of the native implementation. The correction uses a derived raster atlas with provenance in `assets/ui/top-cards/provenance.json`. The Windows package pinned at 9f8ef9f5 does not contain it.
